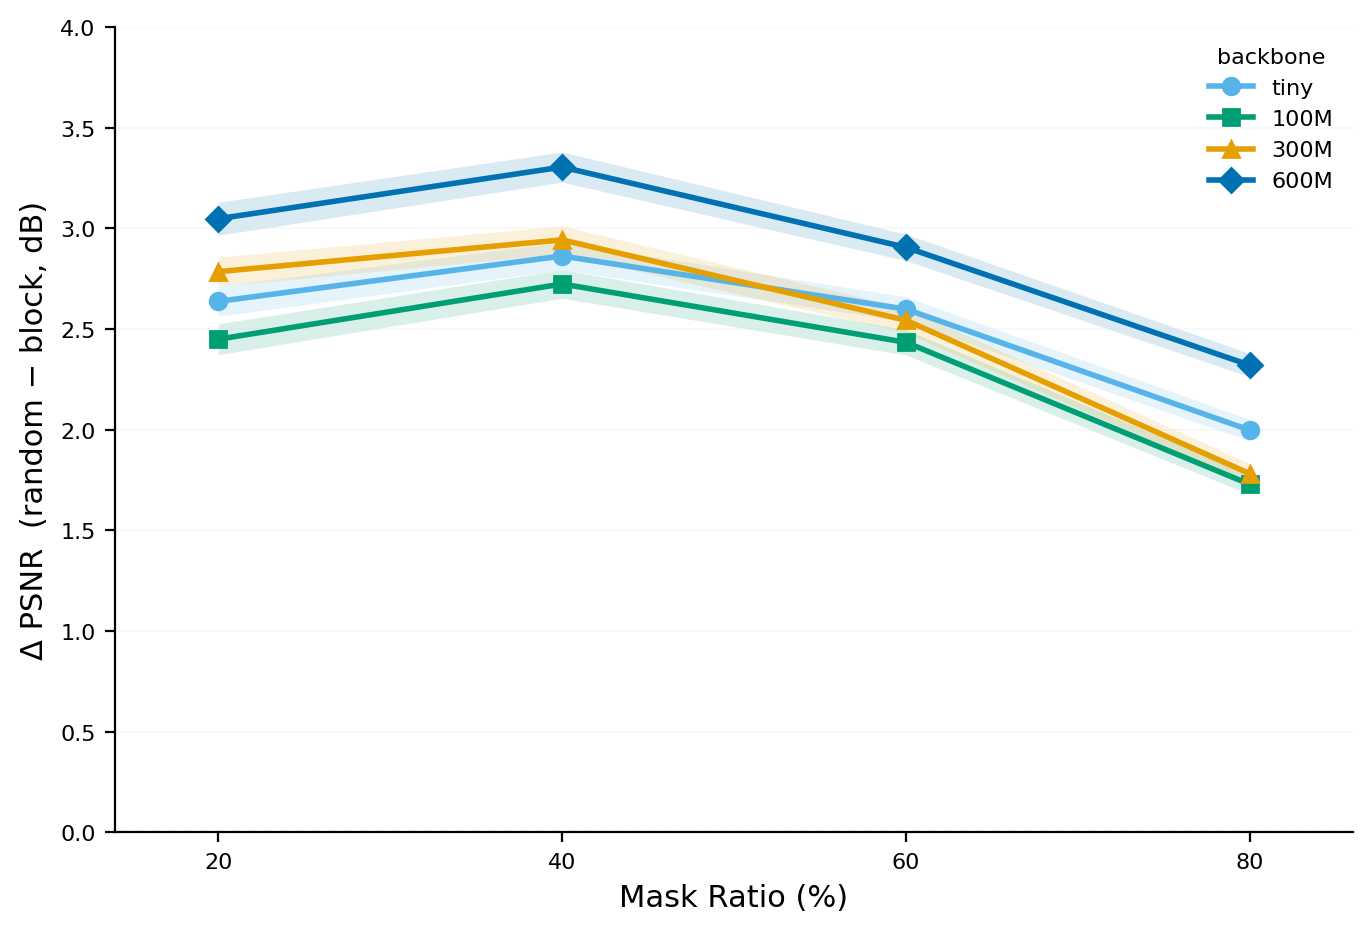
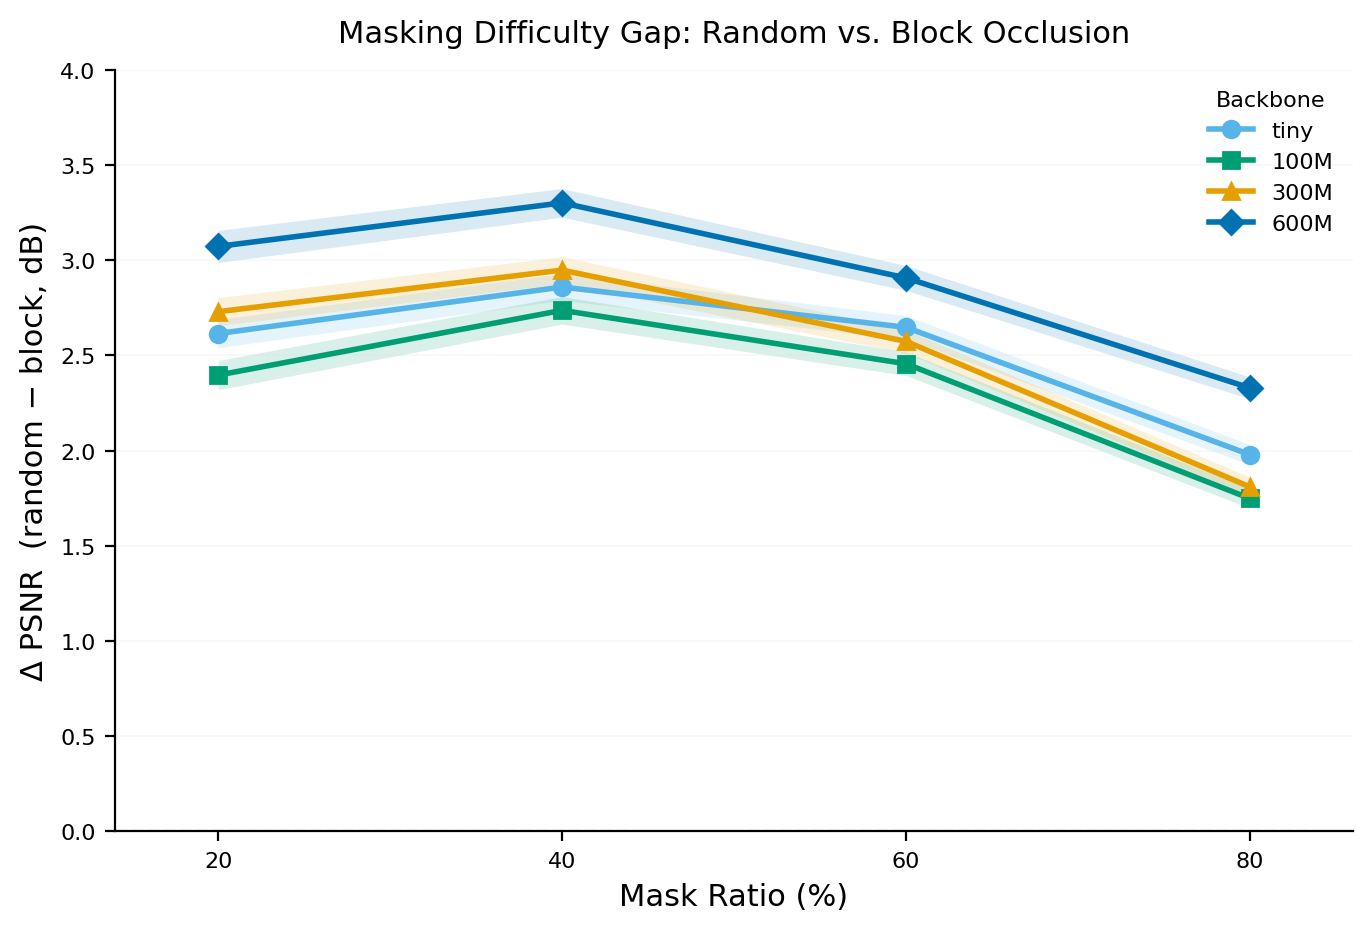
Add missing title to difficulty gap plot

diff --git a/multi_tile_generalization/block_masking_study/scripts/plot_difficulty_gap.py b/multi_tile_generalization/block_masking_study/scripts/plot_difficulty_gap.py
@@ -41,6 +41,7 @@ for bb in BACKBONES:
     ax.plot(x, d, color=c, marker=MARKERS[bb], ms=6, lw=2.0, label=bb, zorder=3)
 
 ax.axhline(0, color="0.25", lw=1.1, ls="--", zorder=2)
+ax.set_title("Masking Difficulty Gap: Random vs. Block Occlusion", fontsize=11, pad=10)
 
 ax.set_xlabel("Mask Ratio (%)")
 ax.set_ylabel("Δ PSNR  (random − block, dB)")
@@ -49,7 +50,7 @@ ax.set_xlim(14, 86)
 ax.set_ylim(*YLIM)
 ax.grid(axis="y", alpha=0.25, lw=0.6)
 ax.grid(axis="x", visible=False)
-ax.legend(title="backbone", loc="upper right", frameon=False)
+ax.legend(title="Backbone", loc="upper right", frameon=False)
 
 fig.tight_layout()
 out = FIG_DIR / "fig_difficulty_gap.png"
